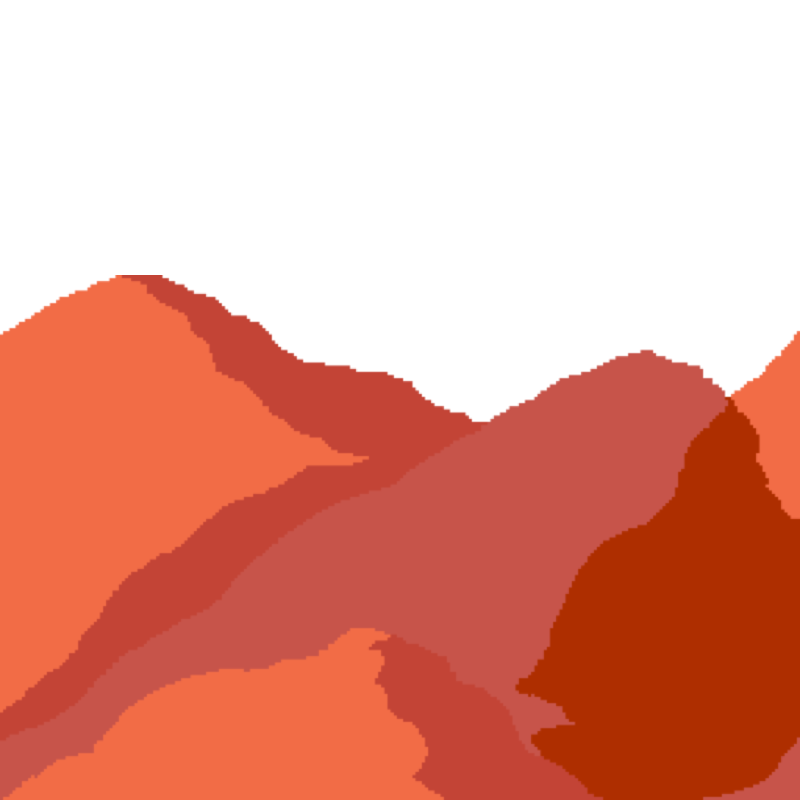
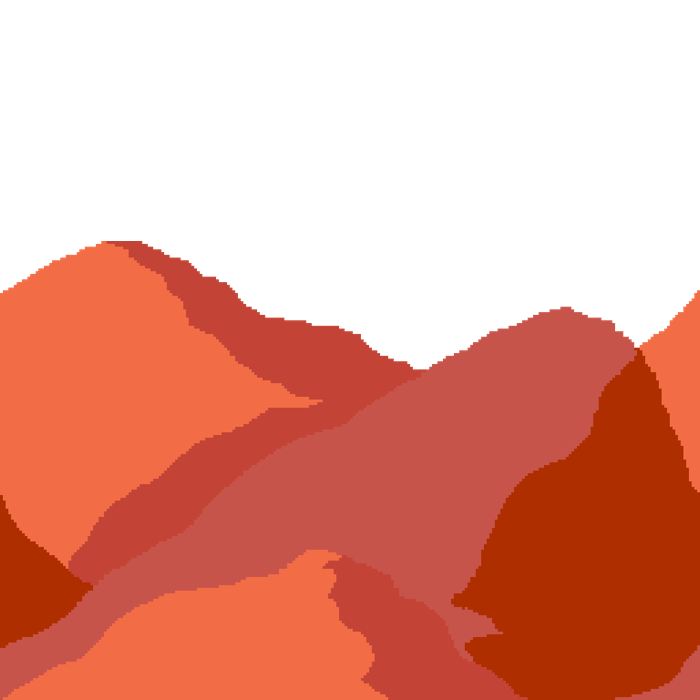
background moves

diff --git a/main.js b/main.js
@@ -19,6 +19,8 @@ function Animation(spriteSheet, startX, startY, frameWidth, frameHeight, frameDu
     this.jumping = false;
     this.justRight = true;
     this.justLeft = false;
+    this.rightScrolling = false;
+    this.leftScrolling = false;
 }
 
 Animation.prototype.drawFrame = function (tick, ctx, x, y, scaleBy) {
@@ -86,22 +88,41 @@ BoundingBox.prototype.collide = function (oth) {
 function Background(game) {
      this.x = 0;
      this.y = 0;
+     Entity.call(this, game, 0, 0);
 }
 
 Background.prototype = new Entity();
 Background.prototype.constructor = Background;
 
 Background.prototype.update = function () {
+    if (this.game.rightScroll) this.rightScrolling = true;
+    if (this.game.leftScroll) this.leftScrolling = true;
+    if (this.rightScrolling) {
+      this.x -= 0.7;
+      if (!this.game.rightScroll) {
+        this.rightScrolling = false;
+      }
+    } else if (this.leftScrolling) {
+      this.x += 0.7;
+      if (!this.game.leftScroll) {
+        this.leftScrolling = false;
+      }
+    }
+    if (this.x > 700) this.x = 0;
+    if (this.x < 0) this.x = 700;
+    Entity.prototype.update.call(this);
 }
 
 Background.prototype.draw = function (ctx) {
     ctx.drawImage(ASSET_MANAGER.getAsset("./img/Image_0005.jpg"), this.x, this.y);
-    ctx.drawImage(ASSET_MANAGER.getAsset("./img/Image_0005.jpg"), 800, this.y);
+    ctx.drawImage(ASSET_MANAGER.getAsset("./img/Image_0005.jpg"), this.x + 699, this.y);
+    ctx.drawImage(ASSET_MANAGER.getAsset("./img/Image_0005.jpg"), this.x - 699, this.y);
     ctx.drawImage(ASSET_MANAGER.getAsset("./img/Image_0009.png"), this.x, this.y);
-    ctx.drawImage(ASSET_MANAGER.getAsset("./img/Image_0009.png"), 800, this.y);
+    ctx.drawImage(ASSET_MANAGER.getAsset("./img/Image_0009.png"), this.x + 699, this.y);
+    ctx.drawImage(ASSET_MANAGER.getAsset("./img/Image_0009.png"), this.x - 699, this.y);
     ctx.drawImage(ASSET_MANAGER.getAsset("./img/Image_0010.png"), this.x, this.y);
-    ctx.drawImage(ASSET_MANAGER.getAsset("./img/Image_0010.png"), 800, this.y);
-
+    ctx.drawImage(ASSET_MANAGER.getAsset("./img/Image_0010.png"), this.x + 699, this.y);
+    ctx.drawImage(ASSET_MANAGER.getAsset("./img/Image_0010.png"), this.x - 699, this.y);
 }
 
 
@@ -118,7 +139,7 @@ function Unicorn(game) {
     this.leftMove = false;
     this.speed = 75;
     this.radius = 100;
-    this.ground = 650;
+    this.ground = 550;
     this.height = 0;
     this.jumpHeight = 90;
     this.boxes = true;
@@ -127,7 +148,7 @@ function Unicorn(game) {
     this.platform = game.boxes[0];
     this.lastplattouch = game.boxes[0];
     this.boundingbox = new BoundingBox(this.x + 90, this.y, this.animation.frameWidth - 145, this.animation.frameHeight - 20);
-    Entity.call(this, game, 0, 650);
+    Entity.call(this, game, 0, 550);
 }
 
 //187, 91
@@ -360,7 +381,7 @@ function Box1(game, x, y, width, height) {
     this.pushedRight = false;
     this.pushedLeft = false;
     this.blocked = false;
-    this.boundingbox = new BoundingBox(400, 640, width * .5, height * .5);
+    this.boundingbox = new BoundingBox(400, 550, width * .5, height * .5);
     Entity.call(this, game, this.x, this.y);
 }
 
@@ -468,10 +489,10 @@ ASSET_MANAGER.downloadAll(function () {
     var gameEngine = new GameEngine();
     var boxes = [];
     var bg = new Background(gameEngine);
-    var box = new Box1(gameEngine, 400, 640, 144, 144);
-    var box2 = new Box2(gameEngine, 544, 640, 144, 144);
-    var box3 = new Box2(gameEngine, 230, 640, 144, 144);
-    var plat = new Plat1(gameEngine, 150, 560, 553, 92);
+    var box = new Box1(gameEngine, 400, 550, 144, 144);
+    var box2 = new Box2(gameEngine, 544, 550, 144, 144);
+    var box3 = new Box2(gameEngine, 230, 550, 144, 144);
+    var plat = new Plat1(gameEngine, 150, 470, 553, 92);
 
     gameEngine.addEntity(bg);
     gameEngine.addEntity(box);

diff --git a/gameengine.js b/gameengine.js
@@ -63,8 +63,13 @@ GameEngine.prototype.startInput = function () {
 
     this.ctx.canvas.addEventListener("keydown", function (e) {
         if (String.fromCharCode(e.which) === ' ') that.space = true;
-        if (String.fromCharCode(e.which) === 'D') that.right = true;
-        if (String.fromCharCode(e.which) === 'A') that.left = true;
+        if (String.fromCharCode(e.which) === 'D') {
+          that.right = true;
+          that.rightScroll = true;
+        } if (String.fromCharCode(e.which) === 'A') {
+          that.left = true;
+          that.leftScroll = true;
+        }
 
 //        console.log(e);
         e.preventDefault();
@@ -73,8 +78,13 @@ GameEngine.prototype.startInput = function () {
 
     this.ctx.canvas.addEventListener("keyup", function (e) {
         if (String.fromCharCode(e.which) === ' ') that.space = false;
-        if (String.fromCharCode(e.which) === 'D') that.right = false;
-        if (String.fromCharCode(e.which) === 'A') that.left = false;
+        if (String.fromCharCode(e.which) === 'D') {
+          that.right = false;
+          that.rightScroll = false;
+        } if (String.fromCharCode(e.which) === 'A') {
+          that.left = false;
+          that.leftScroll = false;
+        }
 
 //        console.log(e);
         e.preventDefault();
@@ -122,6 +132,8 @@ GameEngine.prototype.loop = function () {
     this.space;
     this.right;
     this.left;
+    this.leftScroll;
+    this.rightScroll;
 }
 
 function Entity(game, x, y) {

diff --git a/index.html b/index.html
@@ -9,6 +9,6 @@
     <script type="text/javascript" src="./main.js"></script>
 </head>
 <body>
-    <canvas id="gameWorld" tabindex="1" width="1000" height="800" style="border: 1px solid brown; background: lightskyblue"></canvas>
+    <canvas id="gameWorld" tabindex="1" width="1400" height="700" style="border: 1px solid brown; background: lightskyblue"></canvas>
 </body>
 </html>
